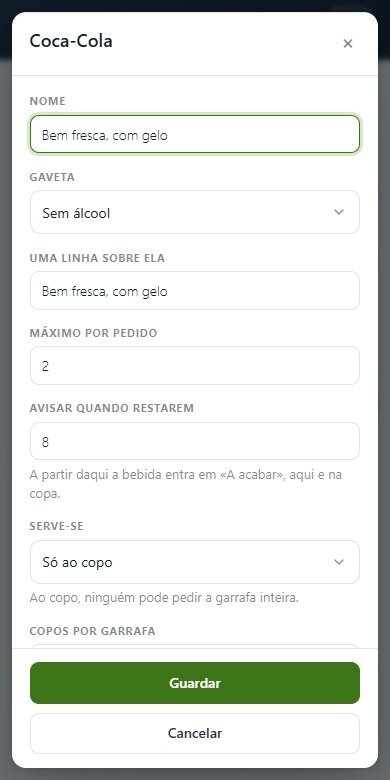
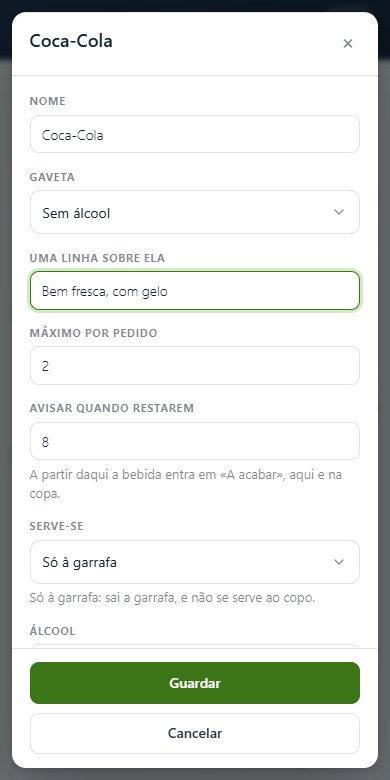
Actualizar os exemplos de bebidas dos stickers
Substitui a fotografia da Cuca pela imagem fornecida e regenera as cenas do Bar em desktop e mobile com dados editoriais limpos.

Configura a Coca-Cola de exemplo exclusivamente à garrafa e corrige o pedido lançado pela equipa para conservar a unidade permitida pela bebida. O sticker passa a mostrar o pedido em garrafas.

Acrescenta provas para pedidos de bebidas servidas apenas à garrafa, valida os 84 stickers e regista a alteração em versao.php.

diff --git a/casamento_web/tests/gerar-capturas-ajuda.js b/casamento_web/tests/gerar-capturas-ajuda.js
@@ -120,6 +120,15 @@ async function prepararDados(p){
   }
 
   let bar=await api(p,'bar_estado');
+  // As suites do Bar criam bebidas ZZ. Uma captura tem de mostrar apenas os
+  // exemplos editoriais, mesmo quando é regenerada na mesma base de testes.
+  for(const pedido of [...(bar.fila||[]),...(bar.resolvidos||[])]){
+    if(!(pedido.itens||[]).some(i=>/^ZZ/i.test(i.nome)))continue;
+    if(pedido.estado==='em_analise')await api(p,'bar_decidir',{id:+pedido.id,decisao:'recusar',motivo_texto:'Limpeza da captura'});
+    else if(['aprovado','a_caminho','falhou'].includes(pedido.estado))await api(p,'bar_cancelar_copa',{id:+pedido.id});
+  }
+  for(const item of (bar.itens||[]).filter(i=>/^ZZ/i.test(i.nome)))await api(p,'bar_item_apagar',{id:+item.id});
+  bar=await api(p,'bar_estado');
   // Retira da fila apenas o exemplo antigo usado pelo gerador anterior. Assim
   // uma regeneração sobre a mesma base continua a produzir uma cena limpa.
   for(const pedido of [...(bar.fila||[]),...(bar.resolvidos||[])]){
@@ -130,27 +139,35 @@ async function prepararDados(p){
   bar=await api(p,'bar_estado');
   let bebida=(bar.itens||[]).find(i=>i.nome==='Coca-Cola');
   const semAlcool=(bar.categorias||[]).find(c=>c.nome==='Sem álcool')||(bar.categorias||[])[0];
-  if(!bebida){const r=await api(p,'bar_item_guardar',{nome:'Coca-Cola',descricao:'Bem fresca, com gelo',categoria_id:+semAlcool.id,alcoolico:0,max_por_pedido:2,stock_minimo:8,servir:'copo',doses_garrafa:6,stock:48,estado:'ativo'});bar=await api(p,'bar_estado');bebida=(bar.itens||[]).find(i=>+i.id===+r.id);}
-  if(!bebida.foto){
+  const coca={nome:'Coca-Cola',descricao:'Bem fresca, com gelo',categoria_id:+semAlcool.id,alcoolico:0,max_por_pedido:2,stock_minimo:8,servir:'garrafa',doses_garrafa:1,stock:48,estado:'ativo'};
+  if(!bebida){const r=await api(p,'bar_item_guardar',coca);bar=await api(p,'bar_estado');bebida=(bar.itens||[]).find(i=>+i.id===+r.id);}
+  else if(bebida.servir!=='garrafa'){await api(p,'bar_item_guardar',{...coca,id:+bebida.id});bar=await api(p,'bar_estado');bebida=(bar.itens||[]).find(i=>+i.id===+bebida.id);}
+  {
     const foto=await apiImagemExemplo(p,'bar_item_foto',+bebida.id,'assets/ajuda/exemplos/coca-cola.jpg');
     if(!foto.success)throw new Error('Não foi possível associar a fotografia à Coca-Cola: '+(foto.error||''));
   }
   const cervejas=(bar.categorias||[]).find(c=>/cerveja/i.test(c.nome))||(bar.categorias||[])[0];
   const vinhos=(bar.categorias||[]).find(c=>/vinho|espumante/i.test(c.nome))||cervejas;
   for(const exemplo of [
-    {nome:'Cuca',descricao:'Cerveja angolana bem fresca',ficheiro:'assets/ajuda/exemplos/cuca.jpg',categoria_id:+cervejas.id,servir:'garrafa',doses_garrafa:1,stock:36},
-    {nome:'Vinho tinto',descricao:'Vinho tinto para acompanhar o jantar',ficheiro:'assets/ajuda/exemplos/vinho-tinto.jpg',categoria_id:+vinhos.id,servir:'ambos',doses_garrafa:6,stock:30},
+    {nome:'Cuca',descricao:'Cerveja angolana bem fresca',ficheiro:'assets/ajuda/exemplos/cuca.jpg',actualizar_foto:true,categoria_id:+cervejas.id,servir:'garrafa',doses_garrafa:1,stock:36},
+    {nome:'Vinho tinto',descricao:'Vinho tinto para acompanhar o jantar',ficheiro:'assets/ajuda/exemplos/vinho-tinto.jpg',actualizar_foto:true,categoria_id:+vinhos.id,servir:'ambos',doses_garrafa:6,stock:30},
   ]){
     bar=await api(p,'bar_estado');let item=(bar.itens||[]).find(i=>i.nome===exemplo.nome);
     if(!item){const r=await api(p,'bar_item_guardar',{...exemplo,alcoolico:1,max_por_pedido:2,stock_minimo:6,estado:'ativo'});bar=await api(p,'bar_estado');item=(bar.itens||[]).find(i=>+i.id===+r.id);}
     else if(+item.categoria_id!==+exemplo.categoria_id){await api(p,'bar_item_guardar',{...item,...exemplo,alcoolico:1,max_por_pedido:2,stock_minimo:6,estado:'ativo'});bar=await api(p,'bar_estado');item=(bar.itens||[]).find(i=>i.nome===exemplo.nome);}
-    if(item&&!item.foto){const foto=await apiImagemExemplo(p,'bar_item_foto',+item.id,exemplo.ficheiro);if(!foto.success)throw new Error('Não foi possível associar a fotografia a '+exemplo.nome+': '+(foto.error||''));}
+    if(item&&(exemplo.actualizar_foto||!item.foto)){const foto=await apiImagemExemplo(p,'bar_item_foto',+item.id,exemplo.ficheiro);if(!foto.success)throw new Error('Não foi possível associar a fotografia a '+exemplo.nome+': '+(foto.error||''));}
   }
   await api(p,'bar_abrir',{});bar=await api(p,'bar_estado');
   const membro=(convite.membros||[]).find(m=>m.nome==='Ana Kiala')||convite.membros[0];
   const membroBar=(convite.membros||[]).find(m=>m.nome==='Mateus Kiala')||membro;
-  const jaPedido=[...(bar.fila||[]),...(bar.resolvidos||[])].some(x=>(x.itens||[]).some(i=>i.nome==='Coca-Cola'));
-  if(!jaPedido) await api(p,'bar_pedir_por',{posto:'copa',convidado_id:+membroBar.id,mesa_id:+mesa.id,itens:[{item_id:+bebida.id,quantidade:2}]});
+  for(const pedido of [...(bar.fila||[]),...(bar.resolvidos||[])]){
+    if(!(pedido.itens||[]).some(i=>i.nome==='Coca-Cola'&&i.unidade!=='garrafa'))continue;
+    if(pedido.estado==='em_analise')await api(p,'bar_decidir',{id:+pedido.id,decisao:'recusar',motivo_texto:'Exemplo anterior ao pedido por garrafa'});
+    else if(['aprovado','a_caminho','falhou'].includes(pedido.estado))await api(p,'bar_cancelar_copa',{id:+pedido.id});
+  }
+  bar=await api(p,'bar_estado');
+  const jaPedido=[...(bar.fila||[]),...(bar.resolvidos||[])].some(x=>['em_analise','aprovado','a_caminho'].includes(x.estado)&&(x.itens||[]).some(i=>i.nome==='Coca-Cola'&&i.unidade==='garrafa'));
+  if(!jaPedido) await api(p,'bar_pedir_por',{posto:'copa',convidado_id:+membroBar.id,mesa_id:+mesa.id,itens:[{item_id:+bebida.id,quantidade:2,unidade:'garrafa'}]});
 
   DADOS={conviteId:+convite.id,conviteCodigo:convite.codigo,membroId:+membro.id,mesaId:+mesa.id,
     mesaToken:mesa.bar_token,bebidaId:+bebida.id,categoriaBarId:+semAlcool.id,despesaId:+desp.id,categoriaOrcId:+cat.id};

diff --git a/casamento_web/tests/chk_bar_garrafa.js b/casamento_web/tests/chk_bar_garrafa.js
@@ -197,11 +197,20 @@ const marca = 'zzg' + Math.floor(Math.random() * 1e5);
     const dm = await post('mesa_save', { nome: 'ZZG Mesa ' + m, capacidade: 6,
                                          forma: 'redonda', cor: 'neutra' });
     const mesa = (dm.mesas || []).filter(x => x.nome === 'ZZG Mesa ' + m).pop();
-    await post('convite_save', { nome_exibicao: 'ZZG Provador ' + m,
+    const dc = await post('convite_save', { nome_exibicao: 'ZZG Provador ' + m,
       mesa: mesa ? String(mesa.id) : '', membros: [{ nome: 'ZZG Provador ' + m }] });
-    return { mesa: mesa ? +mesa.id : 0, nome: 'ZZG Mesa ' + m };
+    return { mesa: mesa ? +mesa.id : 0, nome: 'ZZG Mesa ' + m,
+             convidado: +(((dc.convite || {}).membros || [])[0] || {}).id || 0 };
   }, marca);
   await post('bar_abrir');
+
+  const peloBalcao = await post('bar_pedir_por', { posto: 'copa',
+    convidado_id: cena.convidado, mesa_id: cena.mesa,
+    itens: [{ item_id: soGarrafa.id, quantidade: 1 }] });
+  ok(peloBalcao.success && peloBalcao.pedido.itens[0].unidade === 'garrafa',
+     'um pedido lançado pelo pessoal respeita «só à garrafa»: '
+     + ((peloBalcao.pedido.itens[0] || {}).unidade || peloBalcao.message));
+  await post('bar_cancelar_copa', { id: peloBalcao.pedido.id });
 
   // A regra mais banal que há, e a primeira que qualquer casa escreve.
   const regra = await post('bar_regra_guardar',

diff --git a/casamento_web/tests/chk_stickers_semanticos.js b/casamento_web/tests/chk_stickers_semanticos.js
@@ -31,6 +31,7 @@ const DEMONSTRACAO=[
   ],'a partilha tem alvos próprios no botão WhatsApp em desktop e mobile');
   for(const dispositivo of ['desktop','mobile'])assert.equal(fs.existsSync(path.join(capturas,'demonstracao',`digital-2-3-${dispositivo}.jpg`)),true,'falta a captura de partilha em '+dispositivo);
   for(const foto of ['coca-cola.jpg','cuca.jpg','vinho-tinto.jpg'])assert.equal(fs.existsSync(path.join(__dirname,'..','assets','ajuda','exemplos',foto)),true,'falta a fotografia de exemplo '+foto);
+  assert.match(fs.readFileSync(path.join(__dirname,'gerar-capturas-ajuda.js'),'utf8'),/nome:'Coca-Cola'[\s\S]*?servir:'garrafa'/,'a Coca-Cola de exemplo só pode ser pedida à garrafa');
   for(const tipo of new Set([...AJUDA,...DEMONSTRACAO])){
     const svg=fs.readFileSync(path.join(pasta,tipo+'.svg'),'utf8');
     assert.match(svg,/@keyframes|<svg[^>]*>/,tipo+' é um SVG válido');

diff --git a/casamento_web/api.php b/casamento_web/api.php
@@ -5722,7 +5722,10 @@ if ($acao === 'bar_pedir_por') {
         if ($iid <= 0 || $q <= 0) continue;
         $item = barItem($conn, $iid);
         if (!$item) continue;
-        $linhas[] = [$item, $q];
+        $serve = (string)($item['servir'] ?? 'copo');
+        $un = $serve === 'garrafa' ? 'garrafa'
+            : ($serve === 'ambos' && ($li['unidade'] ?? '') === 'garrafa' ? 'garrafa' : 'copo');
+        $linhas[] = [$item, $q, $un];
     }
     if (!$linhas) erro('Escolha pelo menos uma bebida.');
 
@@ -5759,7 +5762,7 @@ if ($acao === 'bar_pedir_por') {
     $daCopa = podeCopa() && $posto === 'copa';
     $jaEntregue = $daCopa && !empty($d['entregue']);
     $estado = $jaEntregue ? 'entregue' : ($daCopa ? 'aprovado' : 'em_analise');
-    foreach ($linhas as [$item, $q]) {
+    foreach ($linhas as [$item, $q, $un]) {
         if ((int)$item['disponivel'] < $q) {
             erro('Já não há «' . $item['nome'] . '» que chegue: restam '
                . (int)$item['disponivel'] . '.');
@@ -5774,7 +5777,7 @@ if ($acao === 'bar_pedir_por') {
 
        O alcance de uma regra é absoluto ou não é regra nenhuma. O balcão não é
        excepção: é só outra maneira de entrar. */
-    $finais = array_map(fn($l) => ['li' => ['item_id' => (int)$l[0]['id']], 'q' => $l[1]], $linhas);
+    $finais = array_map(fn($l) => ['li' => ['item_id' => (int)$l[0]['id'], 'unidade' => $l[2]], 'q' => $l[1]], $linhas);
     if ($travao = barTravaoDe($conn, $gid, (int)$g['convite_id'], $finais)) erro($travao);
     $codigo = barCodigoCurto();
     $quem = (string)(utilizadorAtual() ?? '');
@@ -5795,11 +5798,11 @@ if ($acao === 'bar_pedir_por') {
     else                  $st->bind_param('isiiis',   $cid, $codigo, $gid, $conviteId, $mesaId, $quem);
     if (!@$st->execute()) erro('Não foi possível lançar o pedido.');
     $pid = $conn->insert_id;
-    foreach ($linhas as [$item, $q]) {
+    foreach ($linhas as [$item, $q, $un]) {
         $si = $conn->prepare("INSERT INTO {$P}bar_pedido_itens
-                (casamento_id,pedido_id,item_id,nome_no_momento,quantidade) VALUES (?,?,?,?,?)");
+                (casamento_id,pedido_id,item_id,nome_no_momento,quantidade,unidade) VALUES (?,?,?,?,?,?)");
         $iid = (int)$item['id']; $nome = (string)$item['nome'];
-        $si->bind_param('iiisi', $cid, $pid, $iid, $nome, $q);
+        $si->bind_param('iiisis', $cid, $pid, $iid, $nome, $q, $un);
         @$si->execute();
     }
     // O stock segue a mesma regra de sempre (§4): aprovar PROMETE, entregar
@@ -5807,11 +5810,12 @@ if ($acao === 'bar_pedir_por') {
     // conta fica exactamente onde ficaria se tivesse passado pelos dois ecrãs.
     // Um que nasce POR DECIDIR não promete nada: quem promete é a aprovação, e
     // reservar aqui contaria a mesma garrafa duas vezes quando ela chegasse.
-    foreach ($linhas as [$item, $q]) {
+    foreach ($linhas as [$item, $q, $un]) {
         if ($jaEntregue)   barMoverStock($conn, (int)$item['id'], -$q, 'entrega', $pid, 'lançado ao balcão');
         elseif ($daCopa)   barReservar($conn, (int)$item['id'], $q);
     }
-    $resumo = implode(', ', array_map(fn($l) => $l[1] . '× ' . $l[0]['nome'], $linhas));
+    $resumo = implode(', ', array_map(fn($l) => $l[1] . '× ' . $l[0]['nome']
+              . ($l[2] === 'garrafa' ? ' (' . ($l[1] === 1 ? 'garrafa' : 'garrafas') . ')' : ''), $linhas));
     registar($conn, 'bar_pedido_por', $g['nome'],
              '#' . $codigo . ' · ' . $resumo
            . ($jaEntregue ? ' · entregue no acto'

diff --git a/casamento_web/versao.php b/casamento_web/versao.php
@@ -21,6 +21,8 @@ exigirAdmin();
 /** Uma correção, e a marca que a denuncia no código instalado. */
 function correcoesEsperadas(): array {
     return [
+        ['O sticker do Bar usa a fotografia indicada da Cuca e serve a Coca-Cola apenas à garrafa',
+         'tests/gerar-capturas-ajuda.js', "nome:'Coca-Cola',descricao:'Bem fresca, com gelo',categoria_id:+semAlcool.id,alcoolico:0,max_por_pedido:2,stock_minimo:8,servir:'garrafa'"],
         ['Os 42 passos da Ajuda usam pictogramas contextuais, marcadores discretos e cenas da interface actual',
          'parcial-ajuda.php', "'convidados'=>[['familia','configurar','enviar']"],
         ['Os exemplos do Bar incluem Coca-Cola, Cuca e vinho tinto com fotografias próprias',
